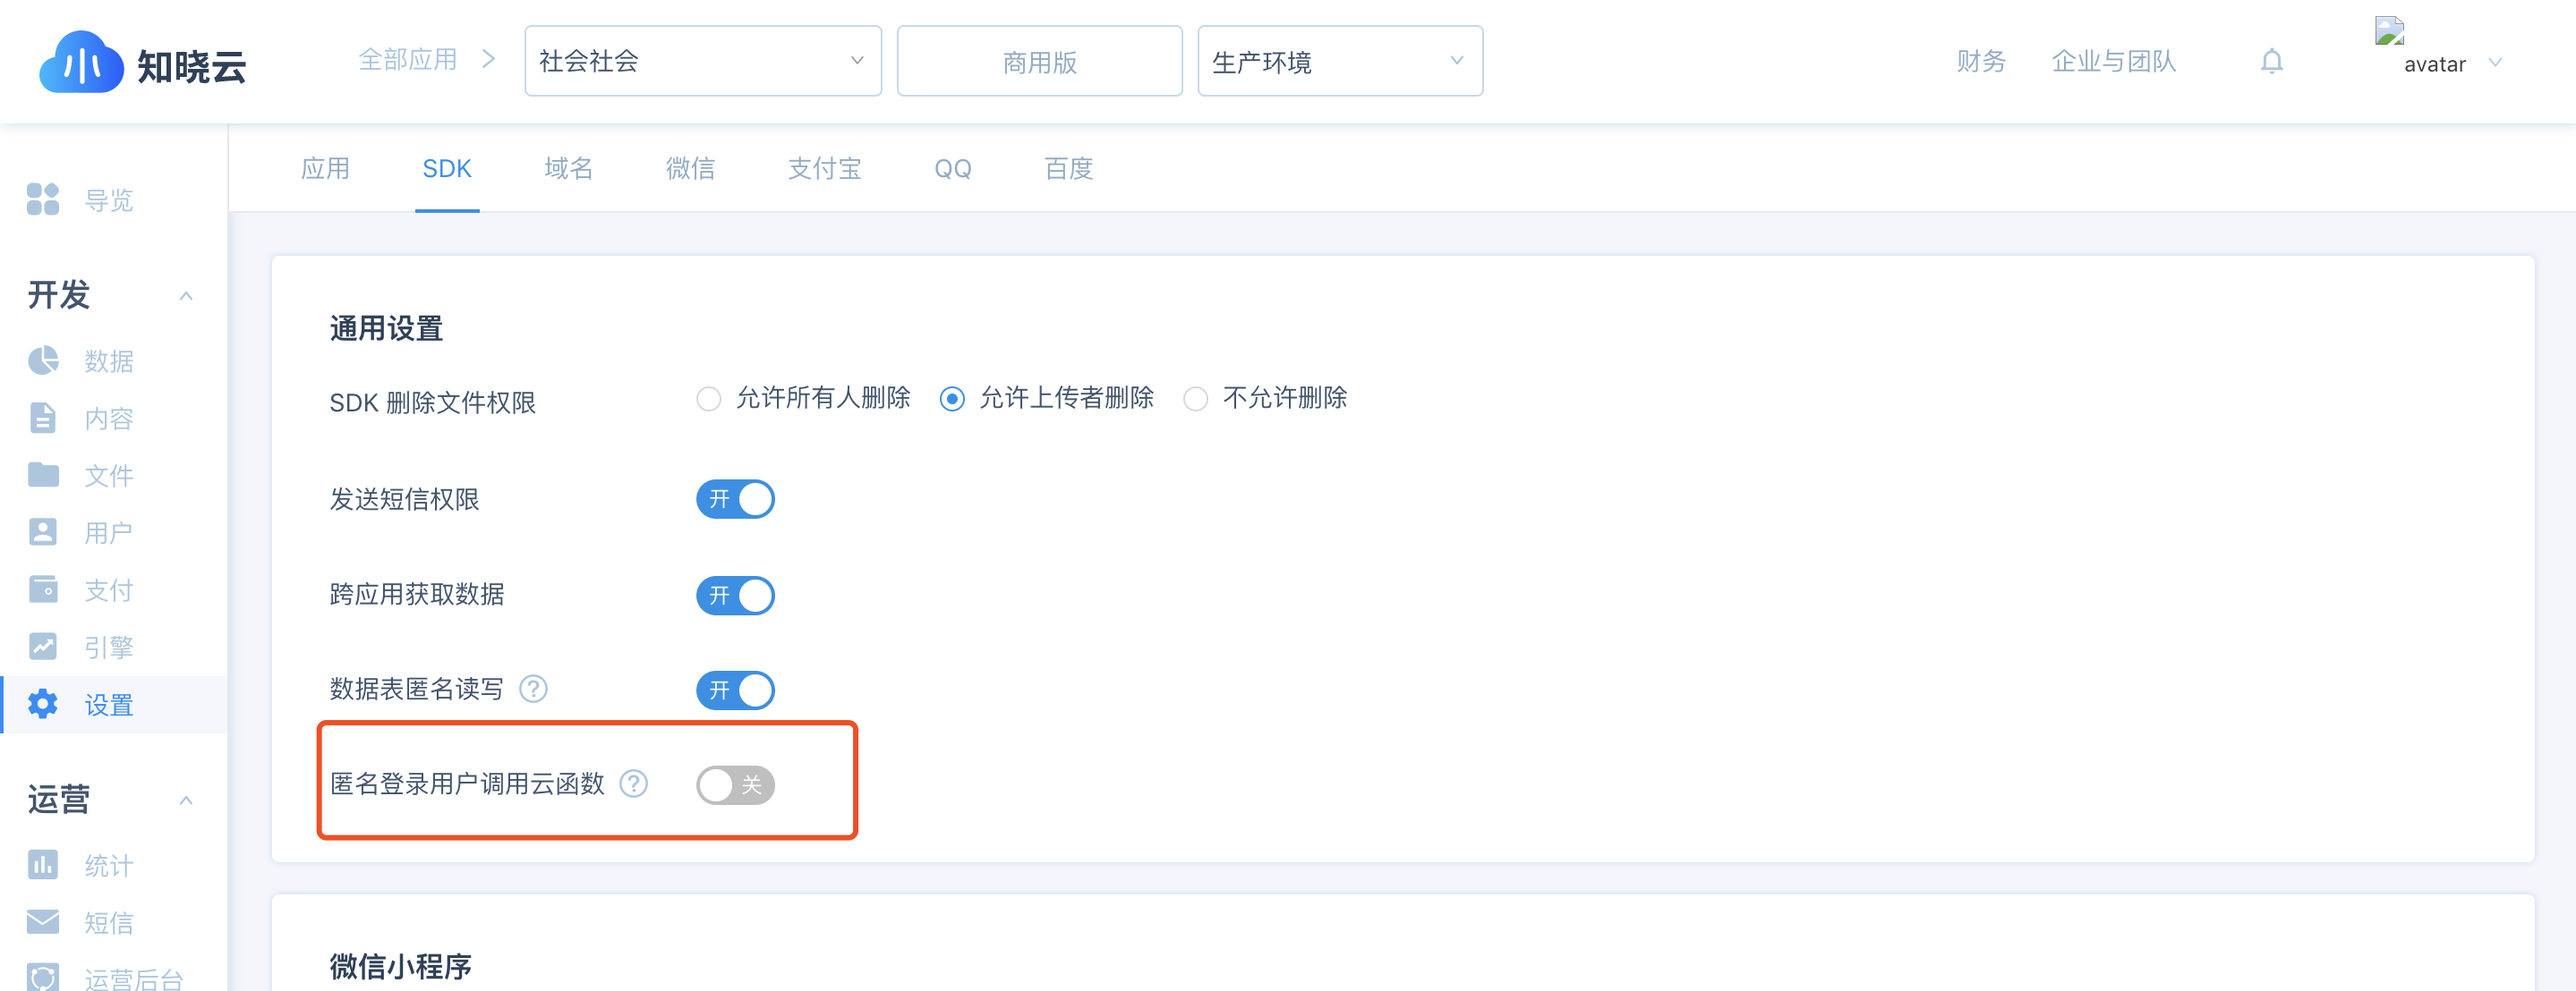
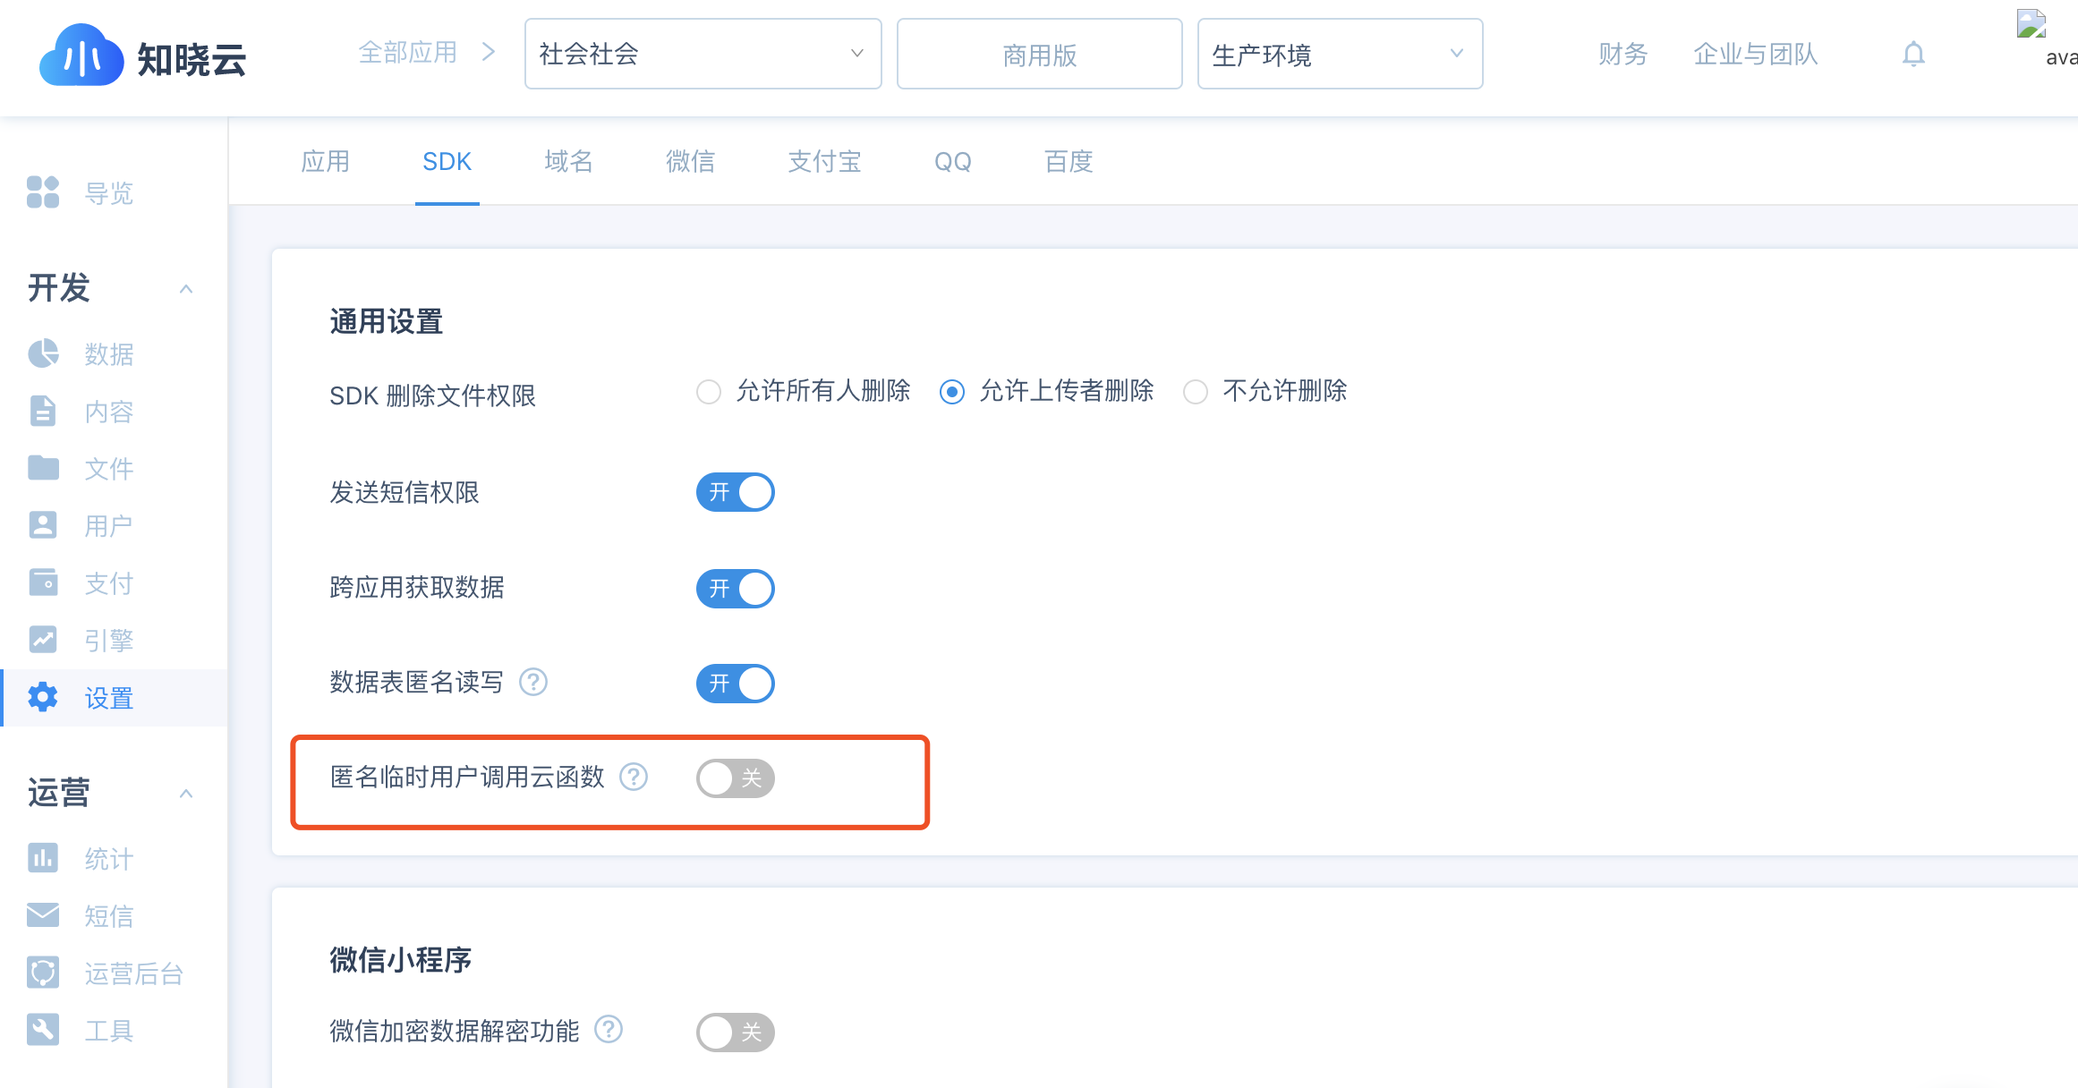
根据 pr 修改文档

diff --git a/js-sdk/invoke-function.md b/js-sdk/invoke-function.md
@@ -12,12 +12,9 @@
 > 调用云函数，需要先在控制台创建云函数 [控制台 - 云函数](https://cloud.minapp.com/dashboard/#/app/[[app_id | addSlashPostfixIfNotEmpty]]engine/cloud-function/function/)
 > ![新建云函数](/images/dashboard/cloud-function-add.jpg)
 
-默认只允许登录用户（不包含匿名登录用户）调用云函数，如果需要允许匿名登录用户调用，请在[控制台-设置-SDK](https://cloud.minapp.com/dashboard/#/app/[[app_id | addSlashPostfixIfNotEmpty]]settings/sdk/) 打开“匿名用户调用云函数”开关
+默认只允许登录用户（不包含匿名临时用户）调用云函数，如果需要允许匿名临时用户调用，请在[控制台-设置-SDK](https://cloud.minapp.com/dashboard/#/app/[[app_id | addSlashPostfixIfNotEmpty]]settings/sdk/) 打开“匿名临时用户调用云函数”开关。**由于原则上客户端是不可信任的，匿名临时用户调用云函数将存在一定的数据安全风险，请在云函数内部做好必要的防护措施，如 request 的 ip 的检测等。**
 
 ![](/images/cloud-function/anonymous.png)
-
-> **danger**
-> 由于原则上客户端是不可信任的，匿名用户调用云函数将存在一定的数据安全风险，请在云函数内部做好必要的防护措施，如 request 的 ip 的检测等。
 
 {% endblock tips1 %}
 
